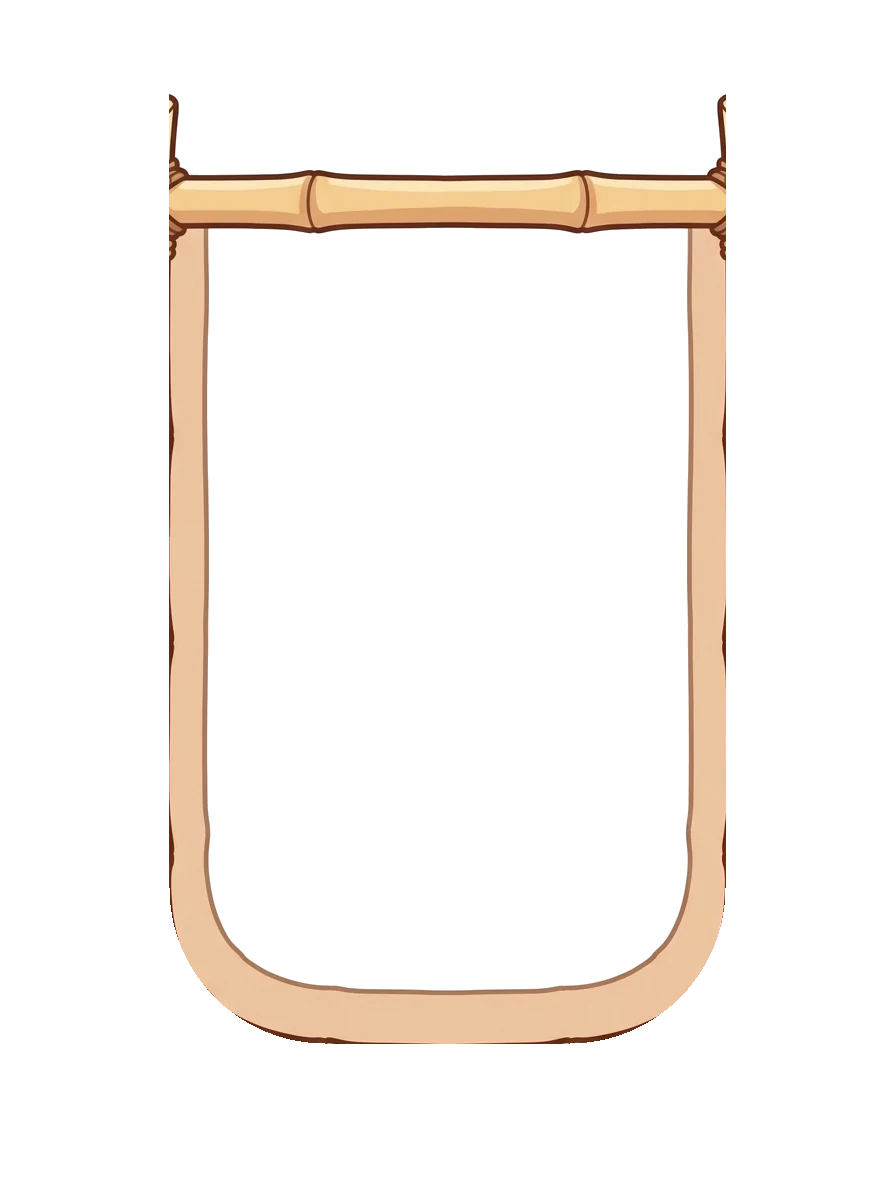
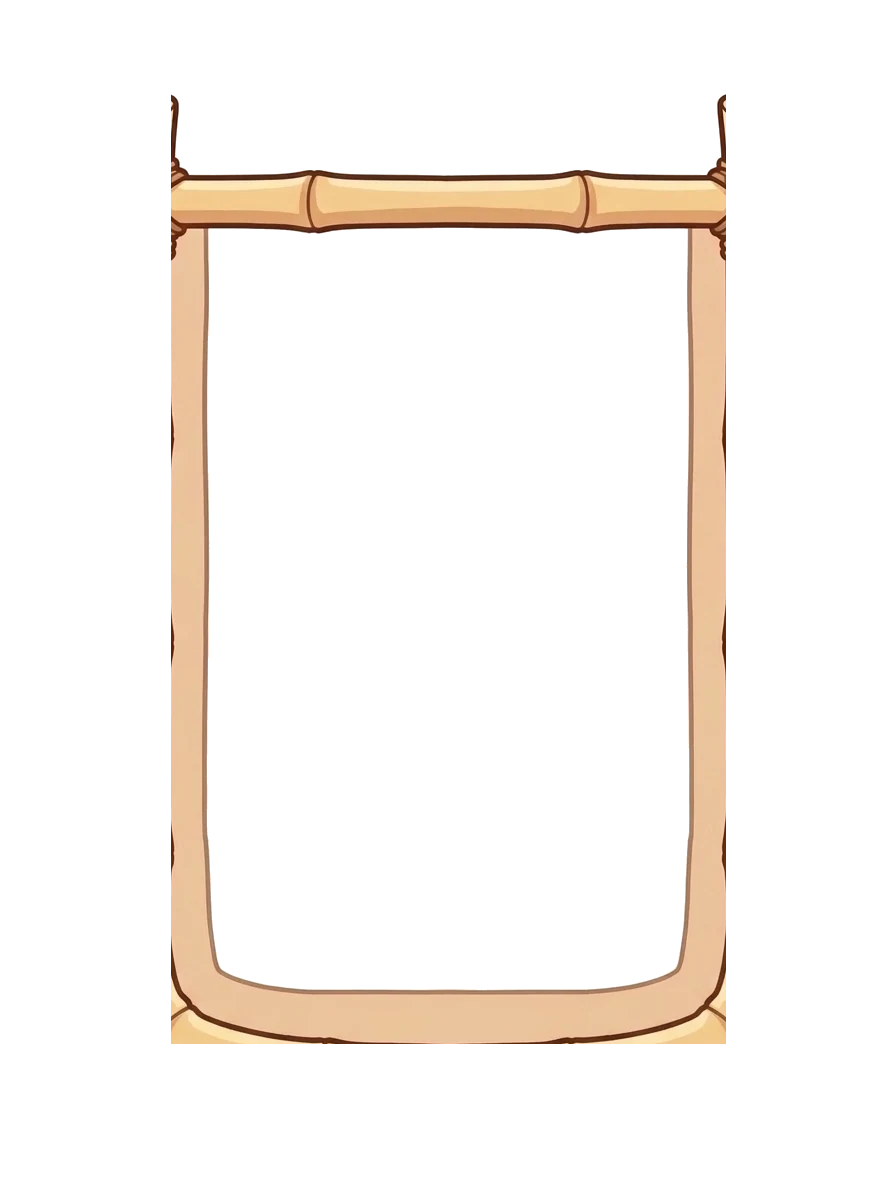
feat: the owner's jar with tight, almost square bottom corners

diff --git a/src/config/sceneSpriteData.ts b/src/config/sceneSpriteData.ts
@@ -9,40 +9,32 @@ export const JAR_SPRITE: JarSprite = {
   front: 'jar-front.webp',
   width: 896,
   height: 1200,
-  left: 169.5,
+  left: 171.5,
   right: 725.5,
   rim: 227.5,
   railTop: 175,
   floor: 1043.5,
   backPieces: [
-    { x: 168, y: 80, w: 12, h: 80 },
+    { x: 170, y: 80, w: 10, h: 80 },
     { x: 716, y: 80, w: 11, h: 80 },
-    { x: 168, y: 160, w: 559, h: 80 },
-    { x: 168, y: 240, w: 44, h: 640 },
-    { x: 684, y: 240, w: 43, h: 640 },
-    { x: 168, y: 880, w: 53, h: 40 },
-    { x: 675, y: 880, w: 52, h: 40 },
-    { x: 172, y: 920, w: 79, h: 40 },
-    { x: 645, y: 920, w: 78, h: 40 },
-    { x: 187, y: 960, w: 521, h: 40 },
-    { x: 217, y: 1000, w: 461, h: 40 },
-    { x: 294, y: 1040, w: 307, h: 40 },
+    { x: 170, y: 160, w: 557, h: 80 },
+    { x: 170, y: 240, w: 49, h: 720 },
+    { x: 683, y: 240, w: 44, h: 680 },
+    { x: 677, y: 920, w: 50, h: 40 },
+    { x: 170, y: 960, w: 557, h: 120 },
   ],
   frontPieces: [
-    { x: 103, y: 80, w: 67, h: 80 },
+    { x: 103, y: 80, w: 69, h: 80 },
     { x: 725, y: 80, w: 68, h: 80 },
-    { x: 69, y: 160, w: 101, h: 80 },
+    { x: 69, y: 160, w: 103, h: 80 },
     { x: 725, y: 160, w: 102, h: 80 },
-    { x: 105, y: 240, w: 65, h: 40 },
-    { x: 721, y: 240, w: 70, h: 680 },
-    { x: 107, y: 280, w: 67, h: 640 },
-    { x: 113, y: 920, w: 75, h: 40 },
-    { x: 707, y: 920, w: 77, h: 40 },
-    { x: 119, y: 960, w: 99, h: 40 },
-    { x: 677, y: 960, w: 100, h: 40 },
-    { x: 137, y: 1000, w: 154, h: 40 },
-    { x: 604, y: 1000, w: 156, h: 40 },
-    { x: 167, y: 1040, w: 562, h: 40 },
+    { x: 105, y: 240, w: 67, h: 40 },
+    { x: 725, y: 240, w: 66, h: 720 },
+    { x: 107, y: 280, w: 65, h: 680 },
+    { x: 114, y: 960, w: 58, h: 40 },
+    { x: 725, y: 960, w: 57, h: 80 },
+    { x: 122, y: 1000, w: 50, h: 40 },
+    { x: 130, y: 1040, w: 636, h: 40 },
     { x: 174, y: 1080, w: 548, h: 40 },
     { x: 175, y: 1120, w: 77, h: 40 },
     { x: 644, y: 1120, w: 77, h: 40 },
